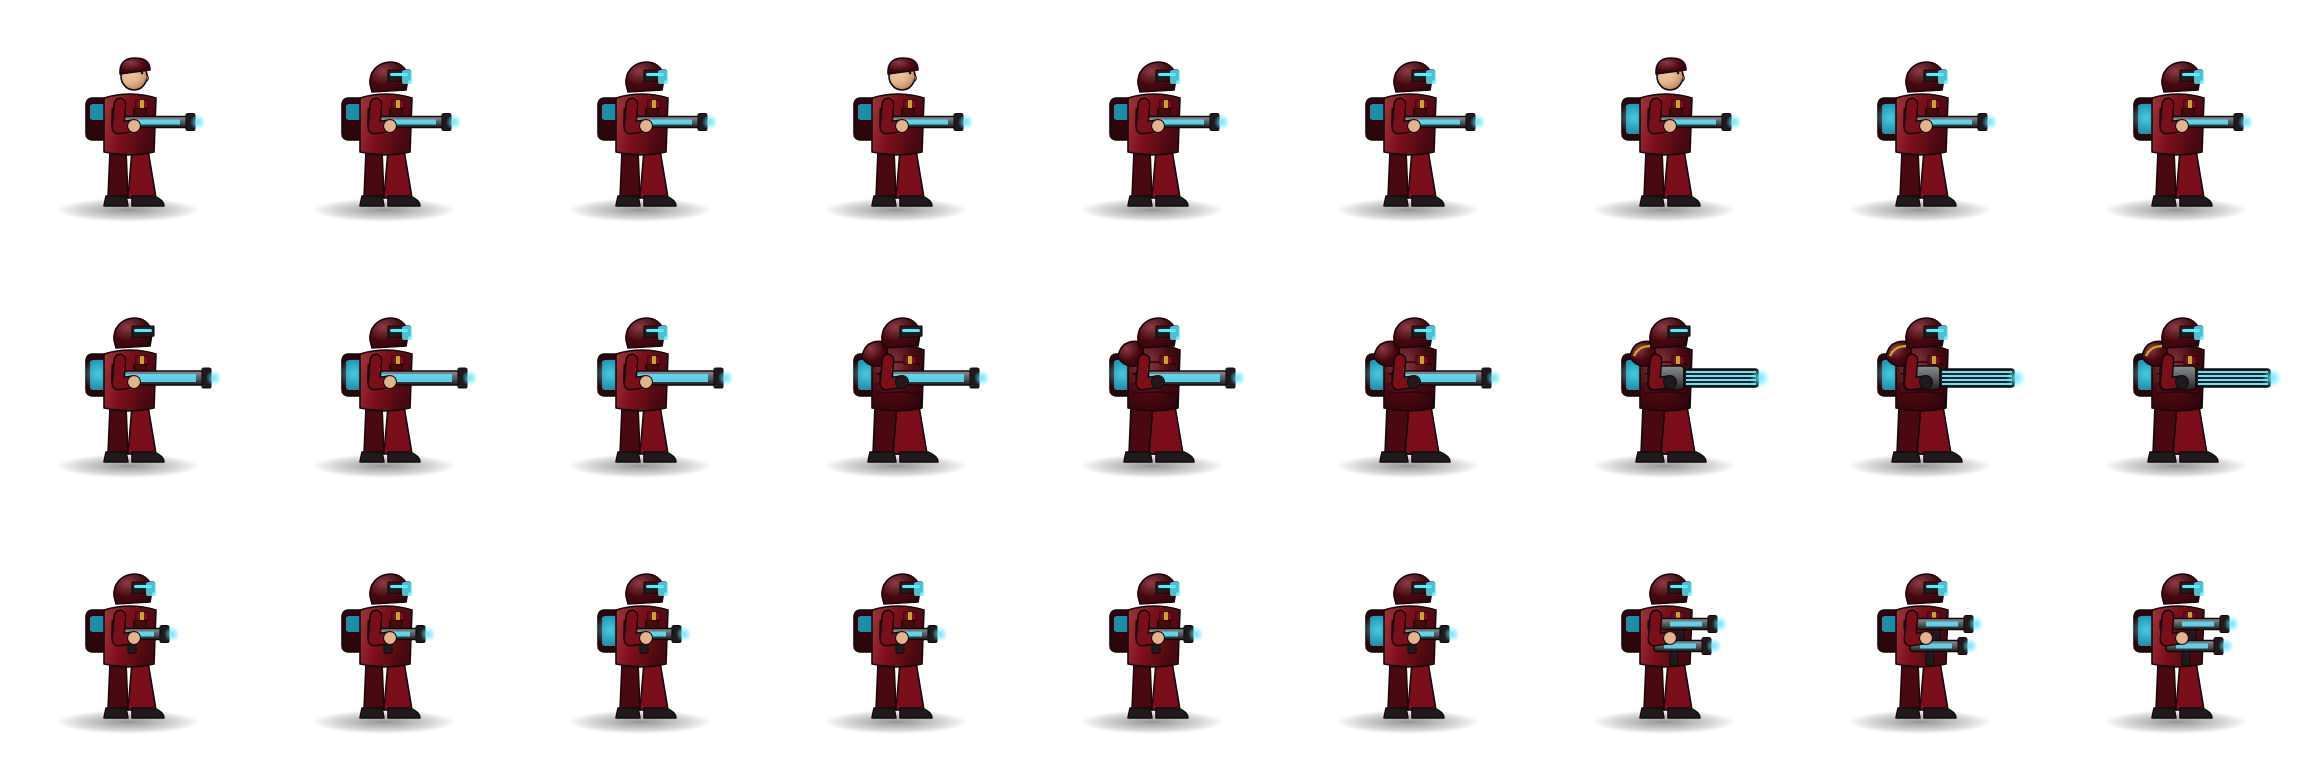
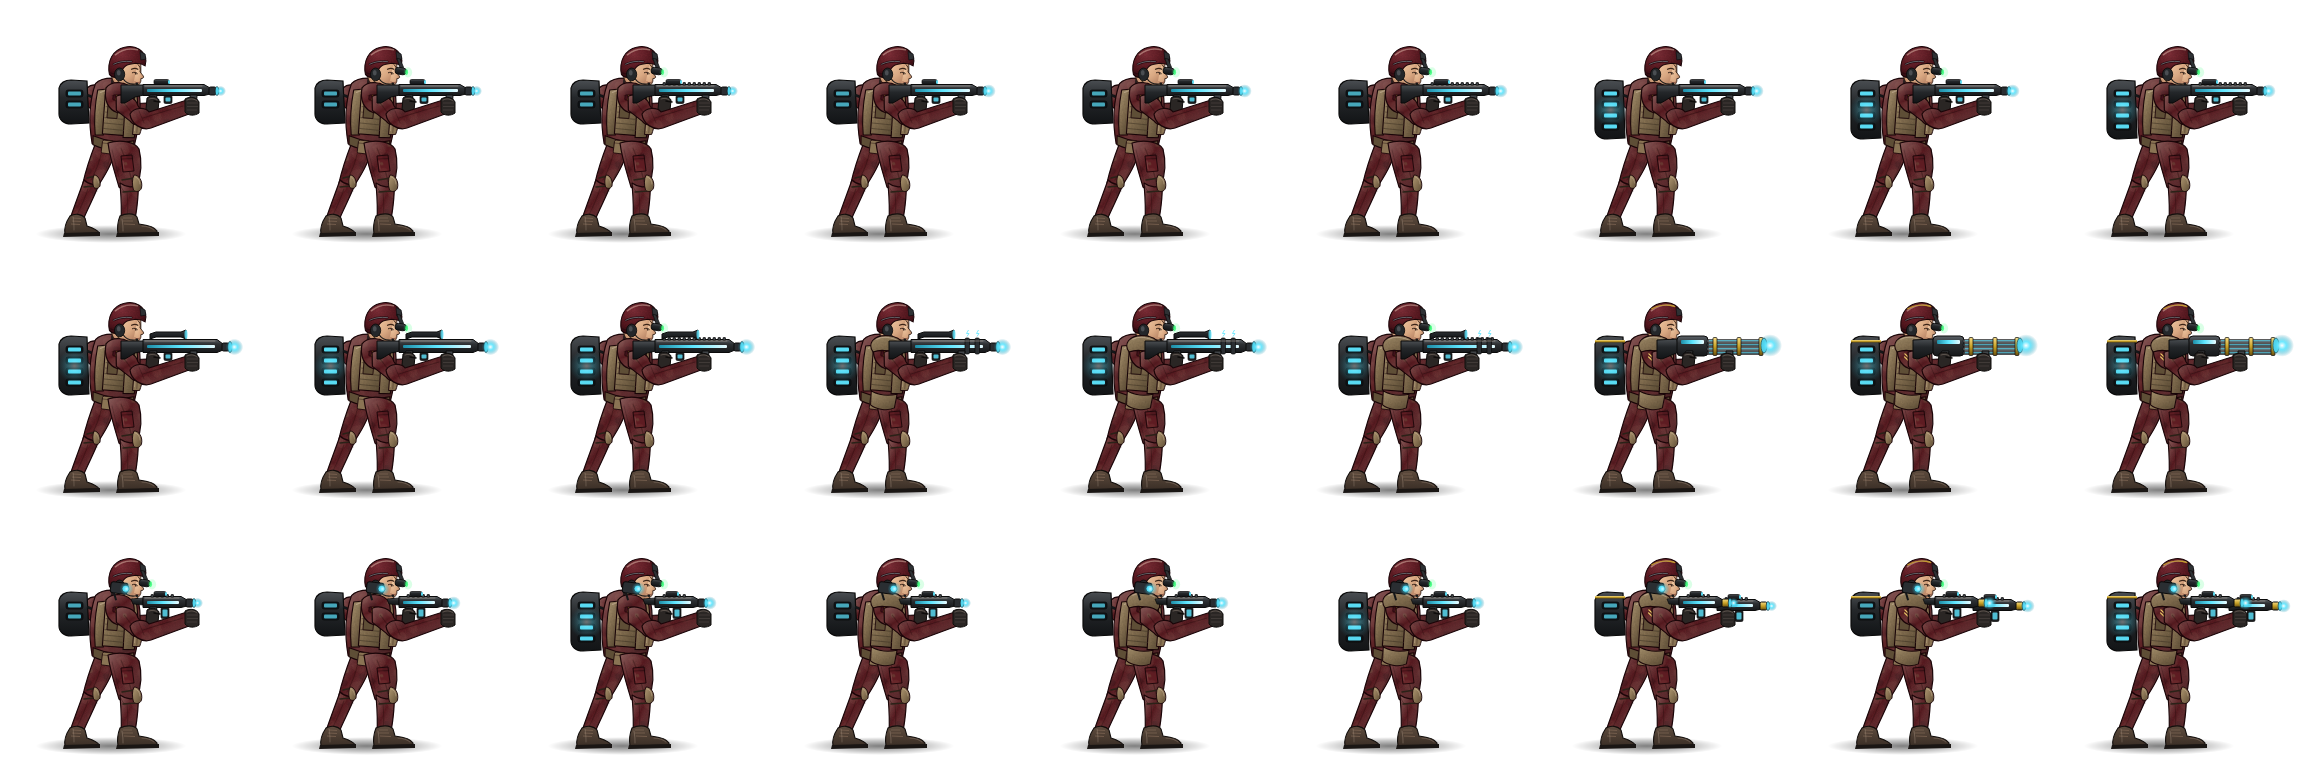
Laser Gunner im neuen Detailstil – alle Türme umgestellt
Claude-Session: https://claude.ai/code/session_01H2UiKssafjRzK7unKsx8yK

diff --git a/spiel.js b/spiel.js
@@ -1,7 +1,7 @@
 // Maiskolbistan Militär-Defense – Testkarte 1 (Westkolbistan)
 // Reines JavaScript, kein Bau-Schritt. Grafiken aus dem Maiskolbistan-Info-Repo (seiten/td-ranger-sprites).
 'use strict';
-const VERSION = '2026-11-20-14';   // bei jedem Update hochzählen (auch in index.html)
+const VERSION = '2026-11-20-15';   // bei jedem Update hochzählen (auch in index.html)
 
 (() => {
   const W = 1140, H = 810, MITTE = 570;
@@ -180,7 +180,7 @@ const VERSION = '2026-11-20-14';   // bei jedem Update hochzählen (auch in inde
       info: 'Feldarzt: schießt nicht. Sein Strahl lässt Türme in Reichweite schneller aus Betäubung, Einfrieren und Lawinen-Verlangsamung erwachen. Schutzladung macht einen Turm unverwundbar gegen Betäubung, Kraftladung verdoppelt bzw. verdreifacht seinen Schaden.'
     },
     laser: {
-      name: 'Laser Gunner', kosten: 465, schraeg: 'bilder/laser_schraeg.png', json: 'laser', tech: 'laser',
+      name: 'Laser Gunner', kosten: 465, schraeg: 'bilder/laser_schraeg.png', json: 'laser', tech: 'laser', groesse: 84,
       pfade: ['Laser-Gewehr', 'Laser-MP'],
       basis: { dmg: 4, reload: 0.7, burst: 1, range: 14, laser: true, tarn: true },
       A: [

diff --git a/index.html b/index.html
@@ -128,6 +128,6 @@ button{touch-action:manipulation}#feld{touch-action:none}
   <div id="toast" role="status" aria-live="polite" style="position:absolute;left:570px;top:96px;transform:translateX(-50%);display:none;z-index:5;background:#2B0509;border:2px solid #C9A227;border-radius:12px;padding:12px 20px;font-weight:800;font-size:17px;color:#E8C766;white-space:nowrap"></div>
   <div id="overlay"><div class="karte" id="overlayInhalt"></div></div>
 </div>
-<script src="spiel.js?v=2026-11-20-14"></script>
+<script src="spiel.js?v=2026-11-20-15"></script>
 </body>
 </html>

diff --git a/README.md b/README.md
@@ -133,9 +133,9 @@ Das Felsplateau ist verschneit (Tannen, vereiste Tümpel, Schnee-Plateaus) und h
 
 Anzeige im Spiel: Rauch-, Lawinen- und Sandsturmwolken, eingefrorene Türme (blau), verlangsamte Türme (weißer Ring), gestörte Türme (rotes Zickzack), Schildblase um Schildroboter, abgetauchte Bosse halb durchsichtig.
 
-## Grafikstil (Umstellung läuft)
+## Grafikstil (Detailstil)
 
-Der **Ranger** ist im neuen, detaillierteren Stil gezeichnet (nach Fotovorlagen): vorgelehnter Anschlag, Plattenträger, Helm mit Headset, Gewehr in M4-Bauart, Stofftextur und Tarnmuster, Licht von oben links. Stufen: Präzision 1 Laservisier (Strahl) · 2 Elite (Zielfernrohr, goldene Winkel) · 3 Nachtsichtgerät · 4 schweres Gewehr (langer Lauf, Zweibein) · 5 leichtes MG mit Patronenkasten. Sturm 1 Goldspitzen-Munition · 2 Waffenlicht · 3 Schulter-, Hals- und Leistenschutz · 4 Granatwerfer und Handgranaten · 5 Sturmhaube mit Visier. Der **Scharfschütze** ist ebenfalls umgestellt (kniender Anschlag, Ellbogen auf dem Knie, Gewehr in M110-Bauart): Phantom 1 Buschhut + Tarnschminke · 2 Wärmebild-Vorsatz · 3 Schalldämpfer · 4 Ghillie-Kapuze und Tarnstreifen · 5 voller Ghillie mit Maisblättern; Schwerkaliber 1 längerer Lauf · 2 .50-Gewehr mit Mündungsbremse · 3 Helm und Panzerung · 4 Leuchtpistole · 5 Laser-Gewehr. Der **Juggernaut** ebenfalls (schwere Plattenrüstung mit Visierhelm, Minigun in M134-Bauart in Hüfthöhe, Munitionsrucksack mit Gurt): Feuerwalze 1 goldene Kraft-Handschuhe · 2 goldene Gelenkdämpfer · 3 lange Läufe · 4 Power-Minigun · 5 HE (glühende Läufe, rotes Visier, Hörner); Doppelfeuer 1 goldener Tragegriff · 2 AP-Gurt (gold) · 3 zweite Minigun am Schulterarm · 4 Cyan-Energierucksack · 5 Volle Leistung (Goldkanten). Der **Railgunner** ebenfalls (Körper wie der Ranger, Schienenkanone mit Spulenringen und leuchtendem Kanal, Batteriepack; ab Geschützstellung eine Stellung hinter einer dreilagigen Sandsackmauer mit Dreibein, Schutzschild, Kondensatorbank und Generator): Schienen-Soldat 1 Kühlzellen · 2 Zielfernrohr · 3 längere Schienen · 4 Kampfanzug · 5 Gold-Spulen; Geschützstellung 1 Proto-Munition (violett) · 2 Blitzbögen · 3 Stellung · 4 Doppelrohr · 5 XRT-9000 (goldene Kondensatorbank). Das **Logistik-Depot** ebenfalls (echte Schrägansicht mit Licht von links oben und Schlagschatten: Kiesplatz mit HESCO-Wall, Fahne, Holzkisten auf Paletten, Munitionskisten, Kornsäcke): Versorgung 1 mehr Kisten und Kanister · 2 Wellblech-Lagerhalle mit Rolltor und Flutlicht · 3 Lkw mit Plane · 4 Kornsilo mit Förderrohr · 5 Staatsreserve (Tresorbau, goldenes Silo, Goldbarren); Sanität 1 Sanitätszelt · 2 Feldlazarett mit Trage · 3 Krankenwagen · 4 Rettungshubschrauber auf Landeplatz · 5 Feldkrankenhaus aus Containern (grünes Kreuz). Der **Flammenwerfer** ebenfalls (Körper wie der Ranger, Flammenrohr nach Bauart M2 mit Zündflamme, Schlauch, Rückentanks mit Druckgaskugel): Hitze 1 blaue Zündflamme · 2 größerer Werfer · 3 Napalm (orange Tanks mit Warnstreifen) · 4 M3 (drei Tanks, Schutzausrüstung) · 5 Exo-Flammenanzug (Gold, Tragegestell); Brandsatz 1 Zündflaschen am Gürtel · 2 Kanister und tropfende Düse · 3 Phosphor (weiße Tanks) · 4 Feuerwand (Breitdüse) · 5 Inferno-Werfer (Doppelrohr, Gold). Der **Raketenwerfer** ebenfalls (Körper wie der Ranger, Rohr auf der Schulter): Panzerjäger 1 roter HE-Sprengkopf · 2 Zielfernrohr · 3 SMAW+ (dickeres Rohr, Einschießgewehr) · 4 großer Tandem-Sprengkopf · 5 Javelin (Kommandoeinheit, Gold); Raketenhagel 1 Tasche · 2 Rucksack mit Reserveraketen · 3 M2 Carl (Stahlrohr mit Kühlrippen und Trichter) · 4 großer Splitterradius (drei Reserveraketen, Schutzausrüstung) · 5 Mehrfachwerfer (Kasten mit Rohren). Die **Fahrzeugfabrik** ebenfalls: jedes Fahrzeug ist ein kleines 3D-Modell in Metern nach Referenzfotos (HMMWV M1151, MaxxPro-MRAP, Minenräumpanzer Keiler, Spähwagen Fennek, Schützenpanzer Puma, Leopard 2A4 und 2A7), daraus entstehen Draufsicht (Rumpf und drehbarer Turm) und Schrägbild mit Licht von links oben und weinroter Tarnlackierung; Fabrikhalle mit Wellblechdach, Oberlichtern, offenem Tor und Vorplatz. Die **Artillerie** ebenfalls (3D-Modell wie die Fahrzeuge: gezogene Haubitze mit angehobenem Rohr in einer Sandsackstellung): Schnellfeuer 1 Kanoniere · 2 M119+ (längeres Rohr) · 3 Munitionsgestell · 4 dickeres Rohr · 5 Dreifachrohr; Schwere Geschütze 1 HE-Granaten (rote Bänder) · 2 Munitionskisten · 3 M198 mit Spreizlafette und Ausgleichern · 4 langes Rohr · 5 Himmelsfalke (goldenes Rohr, Feuerleitradar). Der **Feldarzt** ebenfalls (Körper wie der Ranger, weißer Heilstrahler mit grünem Kreuz und leuchtendem Emitter, Sanitätstank mit Sichtfenster, Armbinde und Helmkreuz – nur grüne Kreuze): Schutzladung 1 Heilzellen · 2 größerer Emitter · 3 Medigun II · 4 Schutzladung (blau) · 5 volle Schutzladung (blau, Gold); Kraftladung 1 Antenne · 2 Ausdauerzellen · 3 Weitstrahl mit Fokusringen · 4 Kraftladung (orange) · 5 volle Kraftladung (orange, Gold). Heilstrahl mit Schein, wandernden Lichtpunkten und Leuchten am Ziel. **Effekte** ebenfalls im Detailstil (`bilder/effekte_spritesheet@2x.png`, doppelte Auflösung, Atlas-Koordinaten unverändert in 1×): Kugeln mit Luftschliere, Leuchtspur, Granaten, Mündungsfeuer mit Seitenflammen, Treffer-Funken mit Staub, Explosion in 8 Bildern (Blitz, Feuerball, Rauchpilz, Splitter, Glut), Brandfläche mit Flammenzungen, Leuchtkugel am Fallschirm, Betäubt-Sterne. Im Code gezeichnet: Flammenkegel aus vielen Flammenzungen mit Rauch und Funken, Rakete mit Leitwerk, Treibsatz und Rauchfahne, Feuerring mit Glut. Zeichengröße auf der Karte: Soldaten im Detailstil 84 px, Juggernaut 105 px, Railgun-Stellung 115 px (passend zu den Gegnern). Die übrigen Türme folgen nacheinander.
+Der **Ranger** ist im neuen, detaillierteren Stil gezeichnet (nach Fotovorlagen): vorgelehnter Anschlag, Plattenträger, Helm mit Headset, Gewehr in M4-Bauart, Stofftextur und Tarnmuster, Licht von oben links. Stufen: Präzision 1 Laservisier (Strahl) · 2 Elite (Zielfernrohr, goldene Winkel) · 3 Nachtsichtgerät · 4 schweres Gewehr (langer Lauf, Zweibein) · 5 leichtes MG mit Patronenkasten. Sturm 1 Goldspitzen-Munition · 2 Waffenlicht · 3 Schulter-, Hals- und Leistenschutz · 4 Granatwerfer und Handgranaten · 5 Sturmhaube mit Visier. Der **Scharfschütze** ist ebenfalls umgestellt (kniender Anschlag, Ellbogen auf dem Knie, Gewehr in M110-Bauart): Phantom 1 Buschhut + Tarnschminke · 2 Wärmebild-Vorsatz · 3 Schalldämpfer · 4 Ghillie-Kapuze und Tarnstreifen · 5 voller Ghillie mit Maisblättern; Schwerkaliber 1 längerer Lauf · 2 .50-Gewehr mit Mündungsbremse · 3 Helm und Panzerung · 4 Leuchtpistole · 5 Laser-Gewehr. Der **Juggernaut** ebenfalls (schwere Plattenrüstung mit Visierhelm, Minigun in M134-Bauart in Hüfthöhe, Munitionsrucksack mit Gurt): Feuerwalze 1 goldene Kraft-Handschuhe · 2 goldene Gelenkdämpfer · 3 lange Läufe · 4 Power-Minigun · 5 HE (glühende Läufe, rotes Visier, Hörner); Doppelfeuer 1 goldener Tragegriff · 2 AP-Gurt (gold) · 3 zweite Minigun am Schulterarm · 4 Cyan-Energierucksack · 5 Volle Leistung (Goldkanten). Der **Railgunner** ebenfalls (Körper wie der Ranger, Schienenkanone mit Spulenringen und leuchtendem Kanal, Batteriepack; ab Geschützstellung eine Stellung hinter einer dreilagigen Sandsackmauer mit Dreibein, Schutzschild, Kondensatorbank und Generator): Schienen-Soldat 1 Kühlzellen · 2 Zielfernrohr · 3 längere Schienen · 4 Kampfanzug · 5 Gold-Spulen; Geschützstellung 1 Proto-Munition (violett) · 2 Blitzbögen · 3 Stellung · 4 Doppelrohr · 5 XRT-9000 (goldene Kondensatorbank). Das **Logistik-Depot** ebenfalls (echte Schrägansicht mit Licht von links oben und Schlagschatten: Kiesplatz mit HESCO-Wall, Fahne, Holzkisten auf Paletten, Munitionskisten, Kornsäcke): Versorgung 1 mehr Kisten und Kanister · 2 Wellblech-Lagerhalle mit Rolltor und Flutlicht · 3 Lkw mit Plane · 4 Kornsilo mit Förderrohr · 5 Staatsreserve (Tresorbau, goldenes Silo, Goldbarren); Sanität 1 Sanitätszelt · 2 Feldlazarett mit Trage · 3 Krankenwagen · 4 Rettungshubschrauber auf Landeplatz · 5 Feldkrankenhaus aus Containern (grünes Kreuz). Der **Flammenwerfer** ebenfalls (Körper wie der Ranger, Flammenrohr nach Bauart M2 mit Zündflamme, Schlauch, Rückentanks mit Druckgaskugel): Hitze 1 blaue Zündflamme · 2 größerer Werfer · 3 Napalm (orange Tanks mit Warnstreifen) · 4 M3 (drei Tanks, Schutzausrüstung) · 5 Exo-Flammenanzug (Gold, Tragegestell); Brandsatz 1 Zündflaschen am Gürtel · 2 Kanister und tropfende Düse · 3 Phosphor (weiße Tanks) · 4 Feuerwand (Breitdüse) · 5 Inferno-Werfer (Doppelrohr, Gold). Der **Raketenwerfer** ebenfalls (Körper wie der Ranger, Rohr auf der Schulter): Panzerjäger 1 roter HE-Sprengkopf · 2 Zielfernrohr · 3 SMAW+ (dickeres Rohr, Einschießgewehr) · 4 großer Tandem-Sprengkopf · 5 Javelin (Kommandoeinheit, Gold); Raketenhagel 1 Tasche · 2 Rucksack mit Reserveraketen · 3 M2 Carl (Stahlrohr mit Kühlrippen und Trichter) · 4 großer Splitterradius (drei Reserveraketen, Schutzausrüstung) · 5 Mehrfachwerfer (Kasten mit Rohren). Die **Fahrzeugfabrik** ebenfalls: jedes Fahrzeug ist ein kleines 3D-Modell in Metern nach Referenzfotos (HMMWV M1151, MaxxPro-MRAP, Minenräumpanzer Keiler, Spähwagen Fennek, Schützenpanzer Puma, Leopard 2A4 und 2A7), daraus entstehen Draufsicht (Rumpf und drehbarer Turm) und Schrägbild mit Licht von links oben und weinroter Tarnlackierung; Fabrikhalle mit Wellblechdach, Oberlichtern, offenem Tor und Vorplatz. Die **Artillerie** ebenfalls (3D-Modell wie die Fahrzeuge: gezogene Haubitze mit angehobenem Rohr in einer Sandsackstellung): Schnellfeuer 1 Kanoniere · 2 M119+ (längeres Rohr) · 3 Munitionsgestell · 4 dickeres Rohr · 5 Dreifachrohr; Schwere Geschütze 1 HE-Granaten (rote Bänder) · 2 Munitionskisten · 3 M198 mit Spreizlafette und Ausgleichern · 4 langes Rohr · 5 Himmelsfalke (goldenes Rohr, Feuerleitradar). Der **Feldarzt** ebenfalls (Körper wie der Ranger, weißer Heilstrahler mit grünem Kreuz und leuchtendem Emitter, Sanitätstank mit Sichtfenster, Armbinde und Helmkreuz – nur grüne Kreuze): Schutzladung 1 Heilzellen · 2 größerer Emitter · 3 Medigun II · 4 Schutzladung (blau) · 5 volle Schutzladung (blau, Gold); Kraftladung 1 Antenne · 2 Ausdauerzellen · 3 Weitstrahl mit Fokusringen · 4 Kraftladung (orange) · 5 volle Kraftladung (orange, Gold). Heilstrahl mit Schein, wandernden Lichtpunkten und Leuchten am Ziel. Der **Laser Gunner** ebenfalls (Körper wie der Ranger, Laserwaffen mit leuchtendem Energiekanal und Linse, Energie-Rucksack): Laser-Gewehr 1 hellere Linse · 2 Energiezellen · 3 langes Laser-Gewehr mit Zielfernrohr · 4 Schockspulen, Schutzausrüstung · 5 Laser-Minigun (Gold); Laser-MP 1 Nachtsicht · 2 Kühlrippen · 3 Laser-MP mit Tarn-Sensor auf der Schulter · 4 Laser-MP+ · 5 Doppel-MP (eine in jeder Hand, Gold). **Effekte** ebenfalls im Detailstil (`bilder/effekte_spritesheet@2x.png`, doppelte Auflösung, Atlas-Koordinaten unverändert in 1×): Kugeln mit Luftschliere, Leuchtspur, Granaten, Mündungsfeuer mit Seitenflammen, Treffer-Funken mit Staub, Explosion in 8 Bildern (Blitz, Feuerball, Rauchpilz, Splitter, Glut), Brandfläche mit Flammenzungen, Leuchtkugel am Fallschirm, Betäubt-Sterne. Im Code gezeichnet: Flammenkegel aus vielen Flammenzungen mit Rauch und Funken, Rakete mit Leitwerk, Treibsatz und Rauchfahne, Feuerring mit Glut. Zeichengröße auf der Karte: Soldaten im Detailstil 84 px, Juggernaut 105 px, Railgun-Stellung 115 px (passend zu den Gegnern). Damit sind alle Türme im neuen Detailstil.
 
 ## Turm-Paket 1 (nach TDX-Wiki)
 
